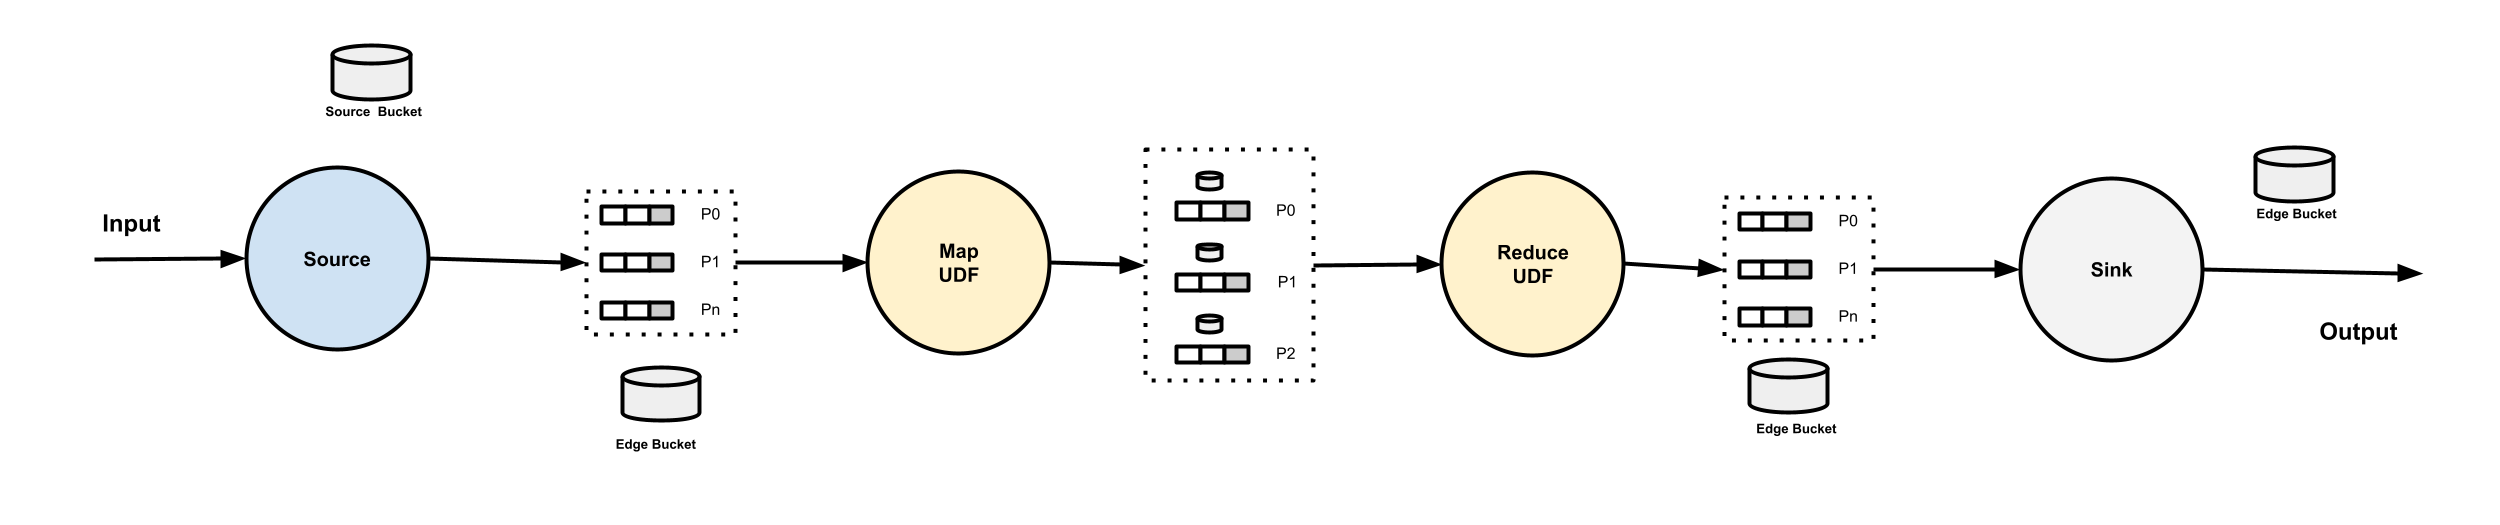
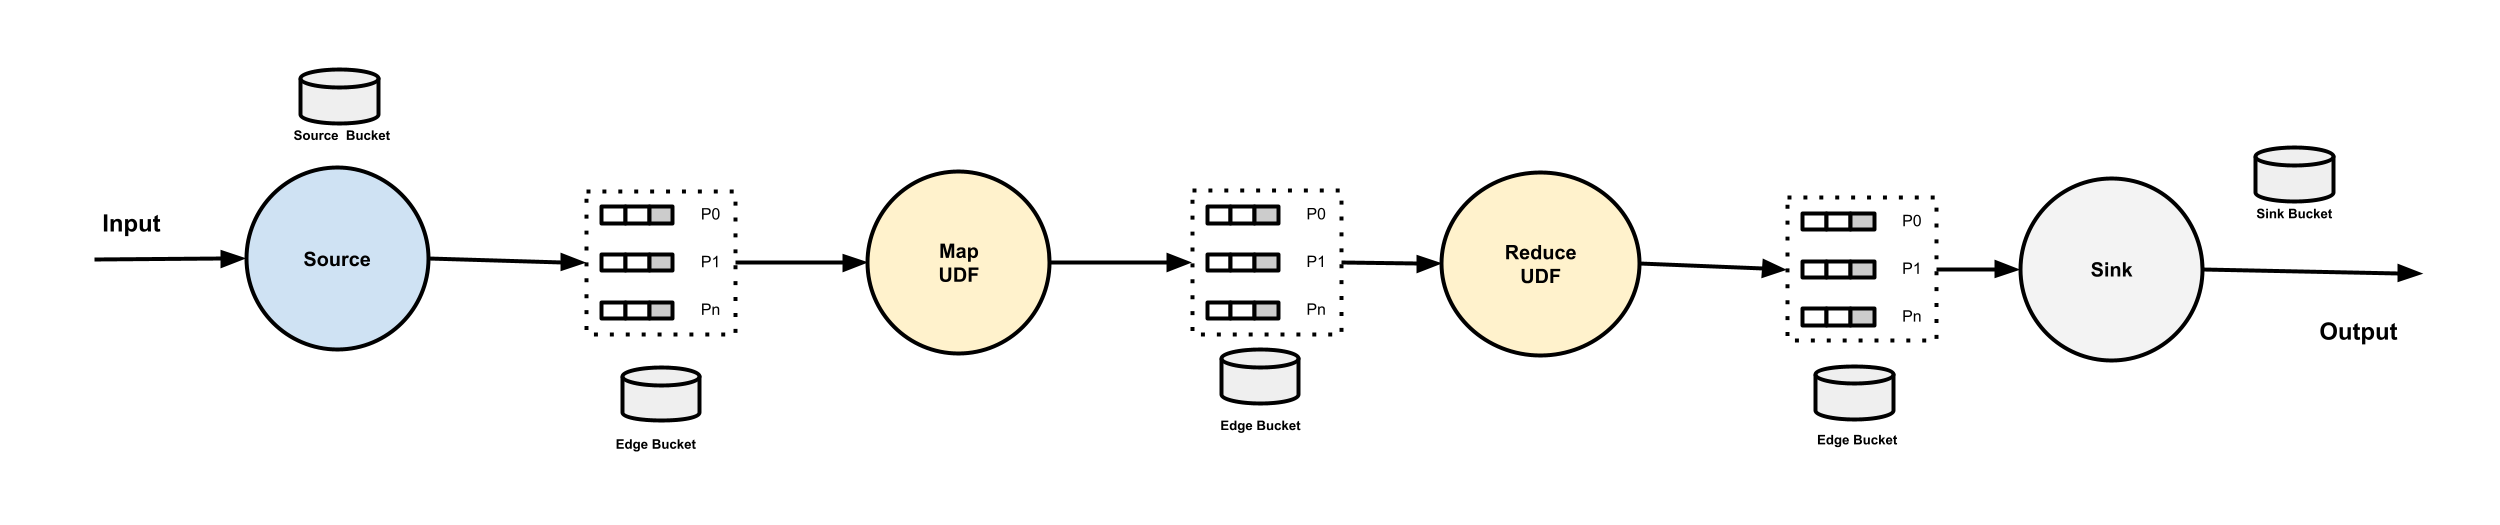
.

diff --git a/docs/specifications/edges-buffers-buckets.md b/docs/specifications/edges-buffers-buckets.md
@@ -8,7 +8,7 @@
 
 `Edge` is the connection between the vertices, specifically, `edge` is defined in the pipeline spec under `.spec.edges`. No matter the to vertex is a map, or a reduce with multiple partitions, it is considered as one edge.
 
-In the following pipeline , there are 3 edges defined (`in` - `aoti`, `aoti` - `compute-sum`, `compute-sum` - `sink`).
+In the following pipeline , there are 3 edges defined (`in` - `aoti`, `aoti` - `compute-sum`, `compute-sum` - `out`).
 
 ```yaml
 apiVersion: numaflow.numaproj.io/v1alpha1
@@ -35,7 +35,7 @@ spec:
             fixed:
               length: 60s
           keyed: true
-    - name: sink
+    - name: out
       scale:
         min: 1
       sink:
@@ -47,7 +47,7 @@ spec:
       to: compute-sum
       parallelism: 2
     - from: compute-sum
-      to: sink
+      to: out
 ```
 
 Each `edge` could have a name for internal usage, the naming convention is `{pipeline-name}-{from-vertex-name}-{to-vertex-name}`.
@@ -58,7 +58,7 @@ Each `edge` could have a name for internal usage, the naming convention is `{pip
 
 When multiple vertices connecting to the same vertex, if the to vertex is a map, the data from all the from vertices will be forwarded to the group of partitoned buffers round-robinly. If the to vertex is a reduce, the data from all the from vertices will be forwarded to the group of partitoned buffers based on the partitioning key.
 
-A source vertex does not have any owned buffers. But a pipeline may have multiple source vertices, followed by one vertex. Same as above, if the following vertex is a map, the data from all the source vertices will be forwarded to the group of partitoned buffers round-robinly. If it is a reduce, the data from all the source vertices will be forwarded to the group of partitoned buffers based on the partitioning key.
+A Source vertex does not have any owned buffers. But a pipeline may have multiple Source vertices, followed by one vertex. Same as above, if the following vertex is a map, the data from all the Source vertices will be forwarded to the group of partitoned buffers round-robinly. If it is a reduce, the data from all the Source vertices will be forwarded to the group of partitoned buffers based on the partitioning key.
 
 ## Buckets
 
@@ -66,9 +66,9 @@ A source vertex does not have any owned buffers. But a pipeline may have multipl
 
 There are 3 types of buckets in a pipeline:
 
-- `Edge Bucket`: used for edge watermark propagation. For Map vertices or Sink vertices, each of them has one bucket; for Reduce vertices, each of them has N buckets, where N is the partitions.
-- `Source Bucket`: used for source watermark propagation.
-- `Sink Bucket`: sitting on the right side of a sink vertex, used for sink watermark.
+- `Edge Bucket`: Each edge has a bucket, used for edge watermark propagation, no matter the vertex that the edge leads to is a map or a reduce .
+- `Source Bucket`: Each Source vertex has a source bucket, used for source watermark propagation.
+- `Sink Bucket`: Sitting on the right side of a Sink vertex, used for sink watermark.
 
 ## Diagrams
 
